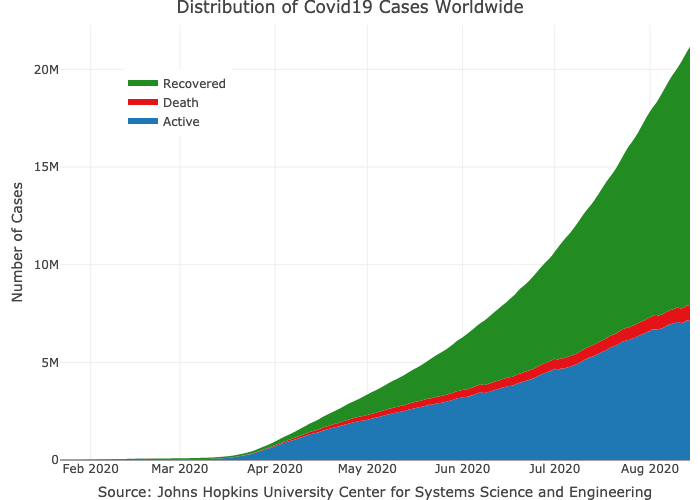
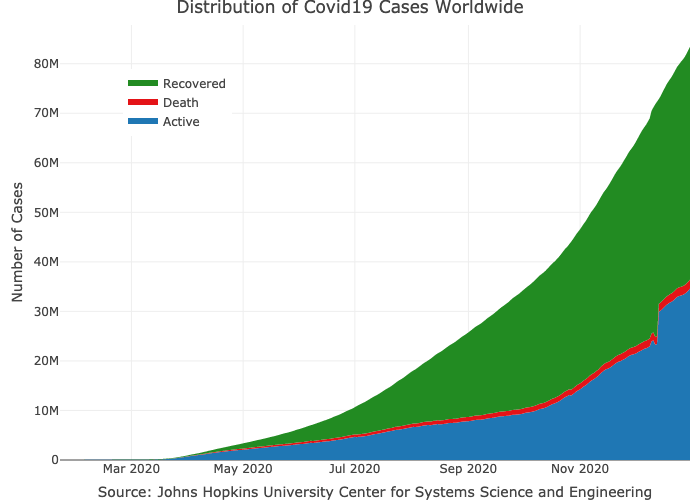
update the readme

diff --git a/README.md b/README.md
@@ -30,10 +30,8 @@ of the package dataset available
 <img src="man/figures/2019-nCoV-CDC-23312_without_background.png" width="65%" align="center"/></a>
 
 <figcaption>
-
 Source: Centers for Disease Control and Prevention’s Public Health Image
 Library
-
 </figcaption>
 
 ## Important Note
@@ -83,13 +81,13 @@ with the `refresh_coronavirus_jhu` function:
 covid19_df <- refresh_coronavirus_jhu()
 
 head(covid19_df)
-#>         date    location location_type location_code location_code_type     data_type value      lat      long
-#> 1 2020-06-03 Afghanistan       country            AF         iso_3166_2     cases_new   758 33.93911 67.709953
-#> 2 2020-06-07 Afghanistan       country            AF         iso_3166_2 recovered_new    45 33.93911 67.709953
-#> 3 2020-06-02 Afghanistan       country            AF         iso_3166_2     cases_new   759 33.93911 67.709953
-#> 4 2020-06-04 Afghanistan       country            AF         iso_3166_2     cases_new   787 33.93911 67.709953
-#> 5 2020-06-08 Afghanistan       country            AF         iso_3166_2 recovered_new   296 33.93911 67.709953
-#> 6 2020-06-06 Afghanistan       country            AF         iso_3166_2 recovered_new    68 33.93911 67.709953
+#>         date    location location_type location_code location_code_type  data_type value      lat      long
+#> 1 2020-04-05 Afghanistan       country            AF         iso_3166_2  cases_new    38 33.93911 67.709953
+#> 2 2020-08-12 Afghanistan       country            AF         iso_3166_2 deaths_new    10 33.93911 67.709953
+#> 3 2020-08-10 Afghanistan       country            AF         iso_3166_2 deaths_new     8 33.93911 67.709953
+#> 4 2020-08-15 Afghanistan       country            AF         iso_3166_2  cases_new    45 33.93911 67.709953
+#> 5 2020-10-09 Afghanistan       country            AF         iso_3166_2  cases_new    77 33.93911 67.709953
+#> 6 2020-04-03 Afghanistan       country            AF         iso_3166_2  cases_new    35 33.93911 67.709953
 ```
 
 ## Dashboard
@@ -107,15 +105,13 @@ data("coronavirus")
 
 This `coronavirus` dataset has the following fields:
 
-  - `date` - The date of the summary
-  - `province` - The province or state, when applicable
-  - `country` - The country or region name
-  - `lat` - Latitude point
-  - `long` - Longitude point
-  - `type` - the type of case (i.e., confirmed, death)
-  - `cases` - the number of daily cases (corresponding to the case type)
-
-<!-- end list -->
+-   `date` - The date of the summary
+-   `province` - The province or state, when applicable
+-   `country` - The country or region name
+-   `lat` - Latitude point
+-   `long` - Longitude point
+-   `type` - the type of case (i.e., confirmed, death)
+-   `cases` - the number of daily cases (corresponding to the case type)
 
 ``` r
 head(coronavirus)
@@ -143,30 +139,30 @@ summary_df %>% head(20)
 #> # A tibble: 20 x 2
 #>    country        total_cases
 #>    <chr>                <int>
-#>  1 US                 5141208
-#>  2 Brazil             3057470
-#>  3 India              2329638
-#>  4 Russia              895691
-#>  5 South Africa        566109
-#>  6 Mexico              492522
-#>  7 Peru                483133
-#>  8 Colombia            410453
-#>  9 Chile               376616
-#> 10 Iran                331189
-#> 11 Spain               326612
-#> 12 United Kingdom      313394
-#> 13 Saudi Arabia        291468
-#> 14 Pakistan            285191
-#> 15 Bangladesh          263503
-#> 16 Argentina           260911
-#> 17 Italy               251237
-#> 18 Turkey              243180
-#> 19 France              239355
-#> 20 Germany             219540
+#>  1 US                19968087
+#>  2 India             10266674
+#>  3 Brazil             7675973
+#>  4 Russia             3127347
+#>  5 France             2677666
+#>  6 United Kingdom     2496231
+#>  7 Turkey             2208652
+#>  8 Italy              2107166
+#>  9 Spain              1928265
+#> 10 Germany            1760520
+#> 11 Colombia           1642775
+#> 12 Argentina          1625514
+#> 13 Mexico             1426094
+#> 14 Poland             1294878
+#> 15 Iran               1225142
+#> 16 Ukraine            1086997
+#> 17 South Africa       1057161
+#> 18 Peru               1015137
+#> 19 Netherlands         808382
+#> 20 Indonesia           743198
 ```
 
 Summary of new cases during the past 24 hours by country and type (as of
-2020-08-11):
+2020-12-31):
 
 ``` r
 library(tidyr)
@@ -179,51 +175,51 @@ coronavirus %>%
   pivot_wider(names_from = type,
               values_from = total_cases) %>%
   arrange(-confirmed)
-#> # A tibble: 188 x 4
-#> # Groups:   country [188]
-#>    country            confirmed death recovered
-#>    <chr>                  <int> <int>     <int>
-#>  1 India                  60963   834     56110
-#>  2 US                     46808  1074     44205
-#>  3 Colombia               12830   321      8943
-#>  4 Argentina               7043   240     73147
-#>  5 Mexico                  6686   926      4118
-#>  6 Russia                  4892   130      6479
-#>  7 Spain                   3632     5         0
-#>  8 Iraq                    3396    67      2312
-#>  9 Bangladesh              2996    33      1535
-#> 10 Philippines             2900    18       273
-#> 11 South Africa            2511   130      8925
-#> 12 Iran                    2345   184      1978
-#> 13 Israel                  1871     9      1082
-#> 14 Bolivia                 1693    49       930
-#> 15 Indonesia               1693    59      1474
-#> 16 Chile                   1572    39      2199
-#> 17 Saudi Arabia            1521    34      1640
-#> 18 Romania                 1215    35       274
-#> 19 Ukraine                 1211    29       590
-#> 20 Turkey                  1183    15      1185
-#> 21 Venezuela               1138     9      2776
-#> 22 Morocco                 1132    17       861
-#> 23 Panama                  1070    16      1155
-#> 24 Germany                 1032     5       965
-#> 25 Guatemala                979    11       853
-#> 26 Ecuador                  862    19         2
-#> 27 Kazakhstan               691   211       975
-#> 28 Japan                    685     6       686
-#> 29 Kuwait                   668     4       731
-#> 30 Nepal                    638     4       171
-#> 31 Costa Rica               636    11       148
-#> 32 Dominican Republic       595    18       756
-#> 33 Ethiopia                 584    20       285
-#> 34 Poland                   551    12       273
-#> 35 Honduras                 531     9       156
-#> 36 Pakistan                 531    15       482
-#> 37 Kenya                    497    15       372
-#> 38 Algeria                  492    10       343
-#> 39 Uzbekistan               443     4       712
-#> 40 Nigeria                  423     6       263
-#> # … with 148 more rows
+#> # A tibble: 191 x 4
+#> # Groups:   country [191]
+#>    country        confirmed death recovered
+#>    <chr>              <int> <int>     <int>
+#>  1 US                227315  3419         0
+#>  2 Brazil             56773  1074     34752
+#>  3 United Kingdom     56029   965        65
+#>  4 Russia             27329   579     28257
+#>  5 Italy              23477   555     17421
+#>  6 France             20042   251      1176
+#>  7 Germany            19367   561      4756
+#>  8 Spain              18047   148         0
+#>  9 South Africa       18000   436     12074
+#> 10 Czechia            17039   151      8098
+#> 11 Colombia           16314   304     11239
+#> 12 Turkey             14380   239     22021
+#> 13 Poland             13464   535     10249
+#> 14 Mexico             12159   910      8024
+#> 15 Argentina          11586    82         0
+#> 16 Ukraine            10117   223     12468
+#> 17 Netherlands         9790   108       196
+#> 18 Indonesia           8074   194      7356
+#> 19 Portugal            7627    76      3260
+#> 20 Canada              7143   134      3409
+#> 21 Israel              6678    18      4037
+#> 22 Iran                6389   128     10119
+#> 23 Slovakia            6315    73      1544
+#> 24 Peru                4641   106         0
+#> 25 Japan               4540    49      1985
+#> 26 Switzerland         4391    51         0
+#> 27 Romania             4322   171      6737
+#> 28 Panama              4046    47      2537
+#> 29 Lebanon             3507    12      1499
+#> 30 Hungary             2971   108      5868
+#> 31 Serbia              2932    48         0
+#> 32 Austria             2913    73      1962
+#> 33 Malaysia            2525     8      1481
+#> 34 Pakistan            2463    71      2156
+#> 35 Slovenia            2412    32      1616
+#> 36 Croatia             2391    60      1733
+#> 37 Lithuania           2360    36      4543
+#> 38 Belgium             2254    87         0
+#> 39 Denmark             2254    42      4329
+#> 40 Chile               2023   109      1787
+#> # … with 151 more rows
 ```
 
 Plotting the total cases by type worldwide:
@@ -290,55 +286,55 @@ The raw data pulled and arranged by the Johns Hopkins University Center
 for Systems Science and Engineering (JHU CCSE) from the following
 resources:
 
-  - World Health Organization (WHO): <https://www.who.int/> <br>
-  - DXY.cn. Pneumonia. 2020. <http://3g.dxy.cn/newh5/view/pneumonia>.
+-   World Health Organization (WHO): <https://www.who.int/> <br>
+-   DXY.cn. Pneumonia. 2020. <http://3g.dxy.cn/newh5/view/pneumonia>.
     <br>
-  - BNO News:
+-   BNO News:
     <https://bnonews.com/index.php/2020/02/the-latest-coronavirus-cases/>
     <br>
-  - National Health Commission of the People’s Republic of China (NHC):
+-   National Health Commission of the People’s Republic of China (NHC):
     <br> http:://www.nhc.gov.cn/xcs/yqtb/list\_gzbd.shtml <br>
-  - China CDC (CCDC):
+-   China CDC (CCDC):
     http:://weekly.chinacdc.cn/news/TrackingtheEpidemic.htm <br>
-  - Hong Kong Department of Health:
+-   Hong Kong Department of Health:
     <https://www.chp.gov.hk/en/features/102465.html> <br>
-  - Macau Government: <https://www.ssm.gov.mo/portal/> <br>
-  - Taiwan CDC:
+-   Macau Government: <https://www.ssm.gov.mo/portal/> <br>
+-   Taiwan CDC:
     <https://sites.google.com/cdc.gov.tw/2019ncov/taiwan?authuser=0>
     <br>
-  - US CDC: <https://www.cdc.gov/coronavirus/2019-ncov/index.html> <br>
-  - Government of Canada:
+-   US CDC: <https://www.cdc.gov/coronavirus/2019-ncov/index.html> <br>
+-   Government of Canada:
     <https://www.canada.ca/en/public-health/services/diseases/coronavirus.html>
     <br>
-  - Australia Government Department of Health:
+-   Australia Government Department of Health:
     <https://www.health.gov.au/news/coronavirus-update-at-a-glance> <br>
-  - European Centre for Disease Prevention and Control (ECDC):
+-   European Centre for Disease Prevention and Control (ECDC):
     <https://www.ecdc.europa.eu/en/geographical-distribution-2019-ncov-cases>
-  - Ministry of Health Singapore (MOH):
+-   Ministry of Health Singapore (MOH):
     <https://www.moh.gov.sg/covid-19>
-  - Italy Ministry of Health:
+-   Italy Ministry of Health:
     <http://www.salute.gov.it/nuovocoronavirus>
-  - 1Point3Arces: <https://coronavirus.1point3acres.com/en>
-  - WorldoMeters: <https://www.worldometers.info/coronavirus/>
-  - COVID Tracking Project: <https://covidtracking.com/data>. (US
+-   1Point3Arces: <https://coronavirus.1point3acres.com/en>
+-   WorldoMeters: <https://www.worldometers.info/coronavirus/>
+-   COVID Tracking Project: <https://covidtracking.com/data>. (US
     Testing and Hospitalization Data. We use the maximum reported value
     from “Currently” and “Cumulative” Hospitalized for our
     hospitalization number reported for each state.)
-  - French Government: <https://dashboard.covid19.data.gouv.fr/>
-  - COVID Live (Australia): <https://www.covidlive.com.au/>
-  - Washington State Department of Health:
+-   French Government: <https://dashboard.covid19.data.gouv.fr/>
+-   COVID Live (Australia): <https://www.covidlive.com.au/>
+-   Washington State Department of Health:
     <https://www.doh.wa.gov/emergencies/coronavirus>
-  - Maryland Department of Health: <https://coronavirus.maryland.gov/>
-  - New York State Department of Health:
+-   Maryland Department of Health: <https://coronavirus.maryland.gov/>
+-   New York State Department of Health:
     <https://health.data.ny.gov/Health/New-York-State-Statewide-COVID-19-Testing/xdss-u53e/data>
-  - NYC Department of Health and Mental Hygiene:
+-   NYC Department of Health and Mental Hygiene:
     <https://www1.nyc.gov/site/doh/covid/covid-19-data.page> and
     <https://github.com/nychealth/coronavirus-data>
-  - Florida Department of Health Dashboard:
+-   Florida Department of Health Dashboard:
     <https://services1.arcgis.com/CY1LXxl9zlJeBuRZ/arcgis/rest/services/Florida_COVID19_Cases/FeatureServer/0>
     and
     <https://fdoh.maps.arcgis.com/apps/opsdashboard/index.html#/8d0de33f260d444c852a615dc7837c86>
-  - Palestine (West Bank and Gaza): <https://corona.ps/details>
-  - Israel:
+-   Palestine (West Bank and Gaza): <https://corona.ps/details>
+-   Israel:
     <https://govextra.gov.il/ministry-of-health/corona/corona-virus/>
-  - Colorado: <https://covid19.colorado.gov/covid-19-data>
+-   Colorado: <https://covid19.colorado.gov/covid-19-data>
